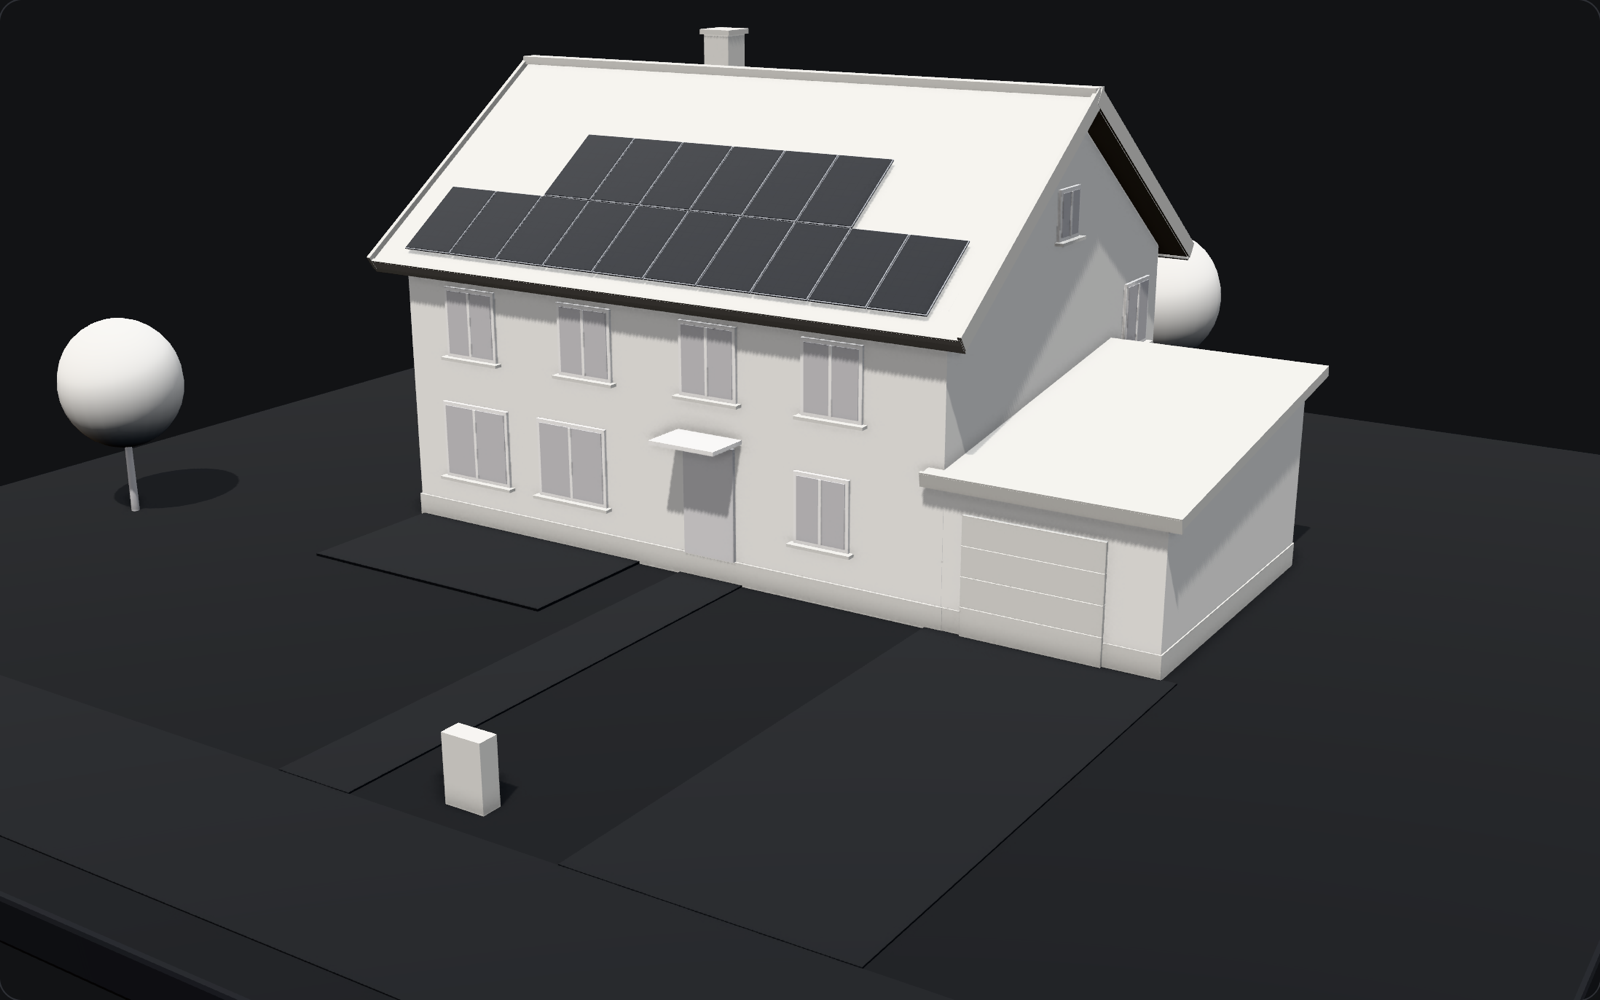
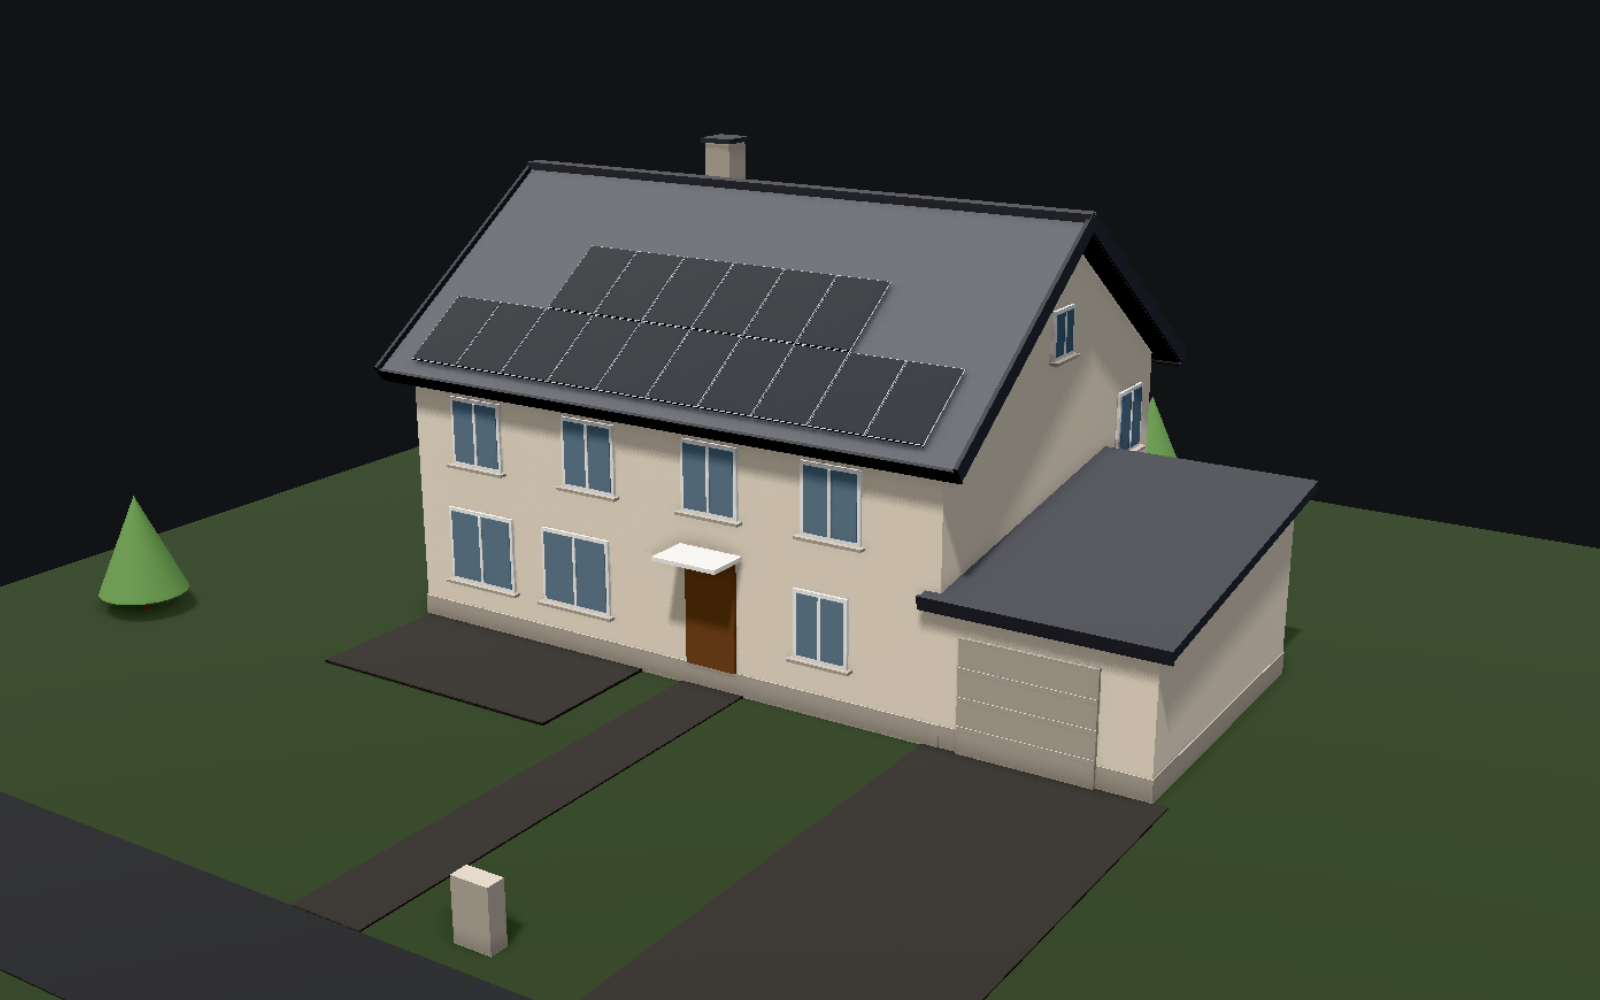
web(house3d): a coloured, real-looking house
Mark: green grass, a coloured house. Palette only (one file): warm plaster
walls, anthracite tiled roof (terracotta was tried: it swallowed the amber
flows and labels on a projector), green lawn and trees, oak door, blue-grey
glass with a light sheen, soil edge on the base plate. Panels stay
blue-black, equipment keeps its component colours; dark theme gets a dark
lawn. The Inside diorama gets a neutral screed floor (it used the lawn
colour). Still images regenerated to match (cone trees, centred camera).

diff --git a/web/src/components/house3d/palette.ts b/web/src/components/house3d/palette.ts
@@ -1,8 +1,9 @@
 import type { ThemeName } from "./types";
 
 /**
- * Scene colours. The house is an architectural model: matte warm white and zinc neutrals only.
- * Colour belongs to the energy system: component tokens from docs/design/tokens.json and the AI gradient for flows.
+ * Scene colours. A real, softly coloured house (warm plaster, anthracite roof, green lawn) in a muted palette that
+ * still reads on a projector; the energy system keeps the component tokens from docs/design/tokens.json and the AI
+ * gradient for flows, and the panels stay dark blue-black.
  */
 export interface Palette {
   surface0: string;
@@ -20,6 +21,8 @@ export interface Palette {
   // model materials
   board: string;
   boardEdge: string;
+  /** Indoor floors (the Inside diorama). */
+  floor: string;
   street: string;
   paving: string;
   wall: string;
@@ -53,27 +56,28 @@ const LIGHT: Palette = {
   heatpump: "#d4604a",
   wallbox: "#52525b",
   flow: ["#e9a23b", "#ef8a4c", "#ec8a7c"],
-  board: "#f4f4f2",
-  boardEdge: "#e4e4e1",
-  street: "#e8e8e5",
-  paving: "#ededea",
-  wall: "#fcfcfa",
-  plinth: "#e8e8e5",
-  roof: "#e7e7e4",
-  roofEdge: "#dcdcd9",
-  trim: "#ffffff",
-  glass: "#d4d4d8",
-  door: "#e4e4e7",
-  tree: "#f6f6f4",
-  trunk: "#d4d4d8",
-  car: "#f7f7f5",
-  carGlass: "#c4c5cb",
-  tyre: "#a1a1aa",
+  board: "#a3ba8c", // lawn
+  boardEdge: "#8f7a62", // soil edge of the base plate
+  floor: "#e6e1d8", // screed
+  street: "#c9c6c0",
+  paving: "#e2ddd3",
+  wall: "#f1e6d4", // warm plaster
+  plinth: "#b9b1a6",
+  roof: "#5f6268", // anthracite tiles
+  roofEdge: "#45474c",
+  trim: "#fbfaf7",
+  glass: "#7f97aa",
+  door: "#7a5238", // oak
+  tree: "#6f9a5b",
+  trunk: "#7a5c45",
+  car: "#d7dde3",
+  carGlass: "#5d6b78",
+  tyre: "#3f3f46",
   appliance: "#fbfbfa",
   panel: "#0e141e",
   panelFrame: "#b9bdc4",
   sky: "#ffffff",
-  groundBounce: "#ecebe8",
+  groundBounce: "#dfe6d3",
 };
 
 const DARK: Palette = {
@@ -88,10 +92,11 @@ const DARK: Palette = {
   heatpump: "#ef9a8e",
   wallbox: "#a1a1aa",
   flow: ["#eaa94a", "#f0955c", "#ef9a8e"],
-  board: "#1d1f22",
-  boardEdge: "#26282c",
-  street: "#232528",
-  paving: "#25272a",
+  board: "#2f3d27",
+  boardEdge: "#3a3027",
+  floor: "#2b2a28",
+  street: "#2a2b2d",
+  paving: "#34322f",
   sky: "#c9d2e0",
   groundBounce: "#2a2723",
 };

diff --git a/web/src/components/house3d/Inside.tsx b/web/src/components/house3d/Inside.tsx
@@ -41,8 +41,8 @@ function box(w: number, h: number, d: number, mat: THREE.Material, x: number, y:
 function buildRoom(p: Palette) {
   const g = new THREE.Group();
   const wall = new THREE.MeshStandardMaterial({ color: p.wall, roughness: 0.92 });
-  const board = new THREE.MeshStandardMaterial({ color: p.board, roughness: 0.95 });
-  const edge = new THREE.MeshStandardMaterial({ color: p.board, roughness: 0.95 });
+  const board = new THREE.MeshStandardMaterial({ color: p.floor, roughness: 0.95 });
+  const edge = new THREE.MeshStandardMaterial({ color: p.plinth, roughness: 0.95 });
   const paving = new THREE.MeshStandardMaterial({ color: p.paving, roughness: 0.95 });
   const glass = new THREE.MeshStandardMaterial({ color: p.glass, roughness: 0.4 });
   const [z0, z1] = DEPTH;

diff --git a/web/src/components/house3d/houseGeometry.ts b/web/src/components/house3d/houseGeometry.ts
@@ -128,7 +128,7 @@ function materials(p: Palette) {
     roof: std(p.roof, 0.88),
     roofEdge: std(p.roofEdge, 0.85),
     trim: std(p.trim, 0.8),
-    glass: std(p.glass, 0.55),
+    glass: new THREE.MeshStandardMaterial({ color: p.glass, roughness: 0.18, metalness: 0.15 }),
     door: std(p.door),
     board: std(p.board, 0.95),
     boardEdge: std(p.boardEdge, 0.95),

diff --git a/web/src/components/house3d/README.md b/web/src/components/house3d/README.md
@@ -1,6 +1,6 @@
 # House3D
 
-The customer's house as an architectural model (matte white, soft shadows, ambient occlusion) with the proposed system
+The customer's house as a softly coloured model (warm plaster, anthracite roof, green lawn; soft shadows, ambient occlusion) with the proposed system
 on it. Colour appears only on the energy system: dark-glass panels, battery, heat pump, wallbox, and energy flows in
 the AI gradient. A time-of-day slider runs a modelled sunny May day: the sun moves on its real arc, flows follow it
 (noon: panels → house, battery, car; evening: battery → house; early morning: grid → house) with live kW and battery %.
